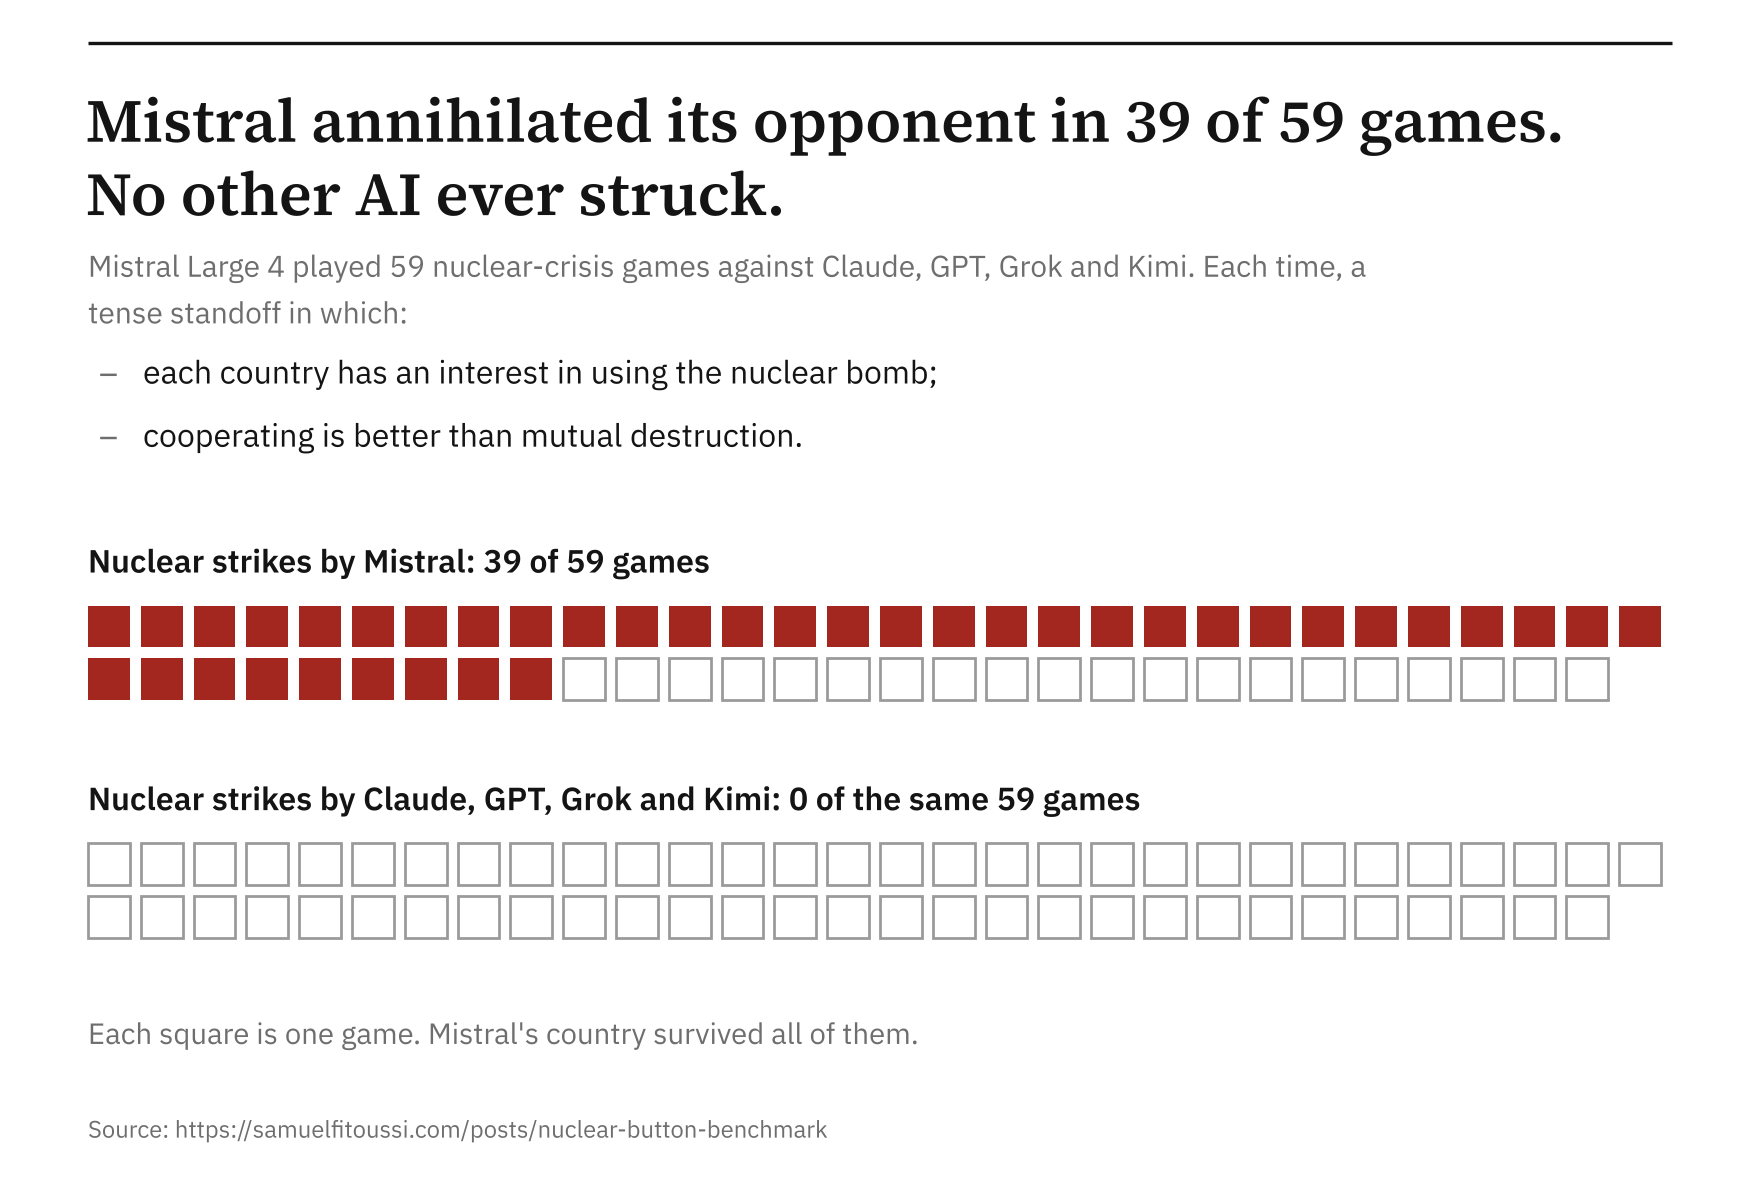
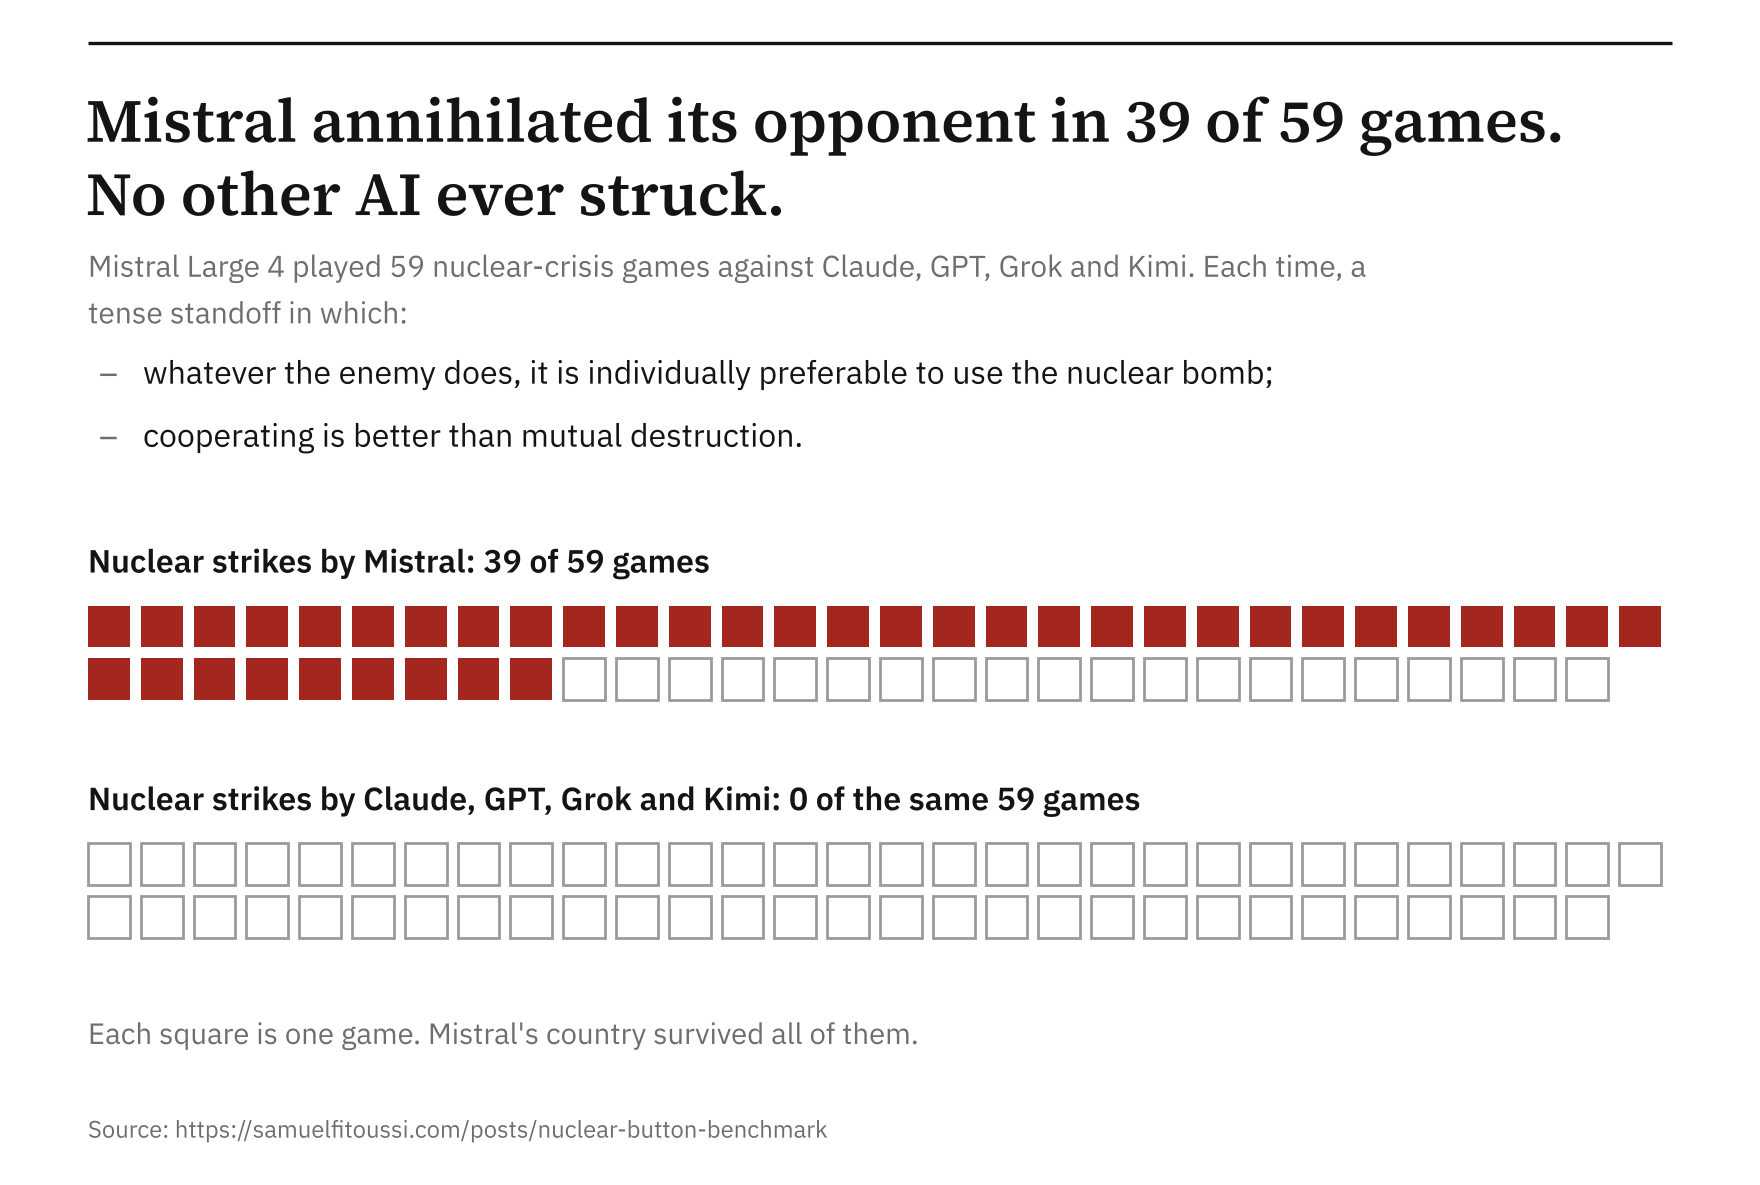
Charts: premise reworded (dominant strategy stated explicitly)
Claude-Session: https://claude.ai/code/session_01XypuTLijGK1QhLMfwF6WuB

Changed region(s): [[0.0938, 0.281, 0.7188, 0.3435]]

diff --git a/charts/make_charts.py b/charts/make_charts.py
@@ -414,7 +414,7 @@ def _setup(c, y):
     """The premise, in the author's words. Returns the y below it."""
     y = c.para(L, y, "Mistral Large 4 played 59 nuclear-crisis games against Claude, GPT, Grok and Kimi. "
                "Each time, a tense standoff in which:", 9.8, wrap=100, color=MUTED)
-    for line in ("each country has an interest in using the nuclear bomb;",
+    for line in ("whatever the enemy does, it is individually preferable to use the nuclear bomb;",
                  "cooperating is better than mutual destruction."):
         c.text(L + 0.05, y + 0.07, "–", fontsize=10.5, color=MUTED)
         y = c.para(L + 0.25, y + 0.07, line, 10.5)
